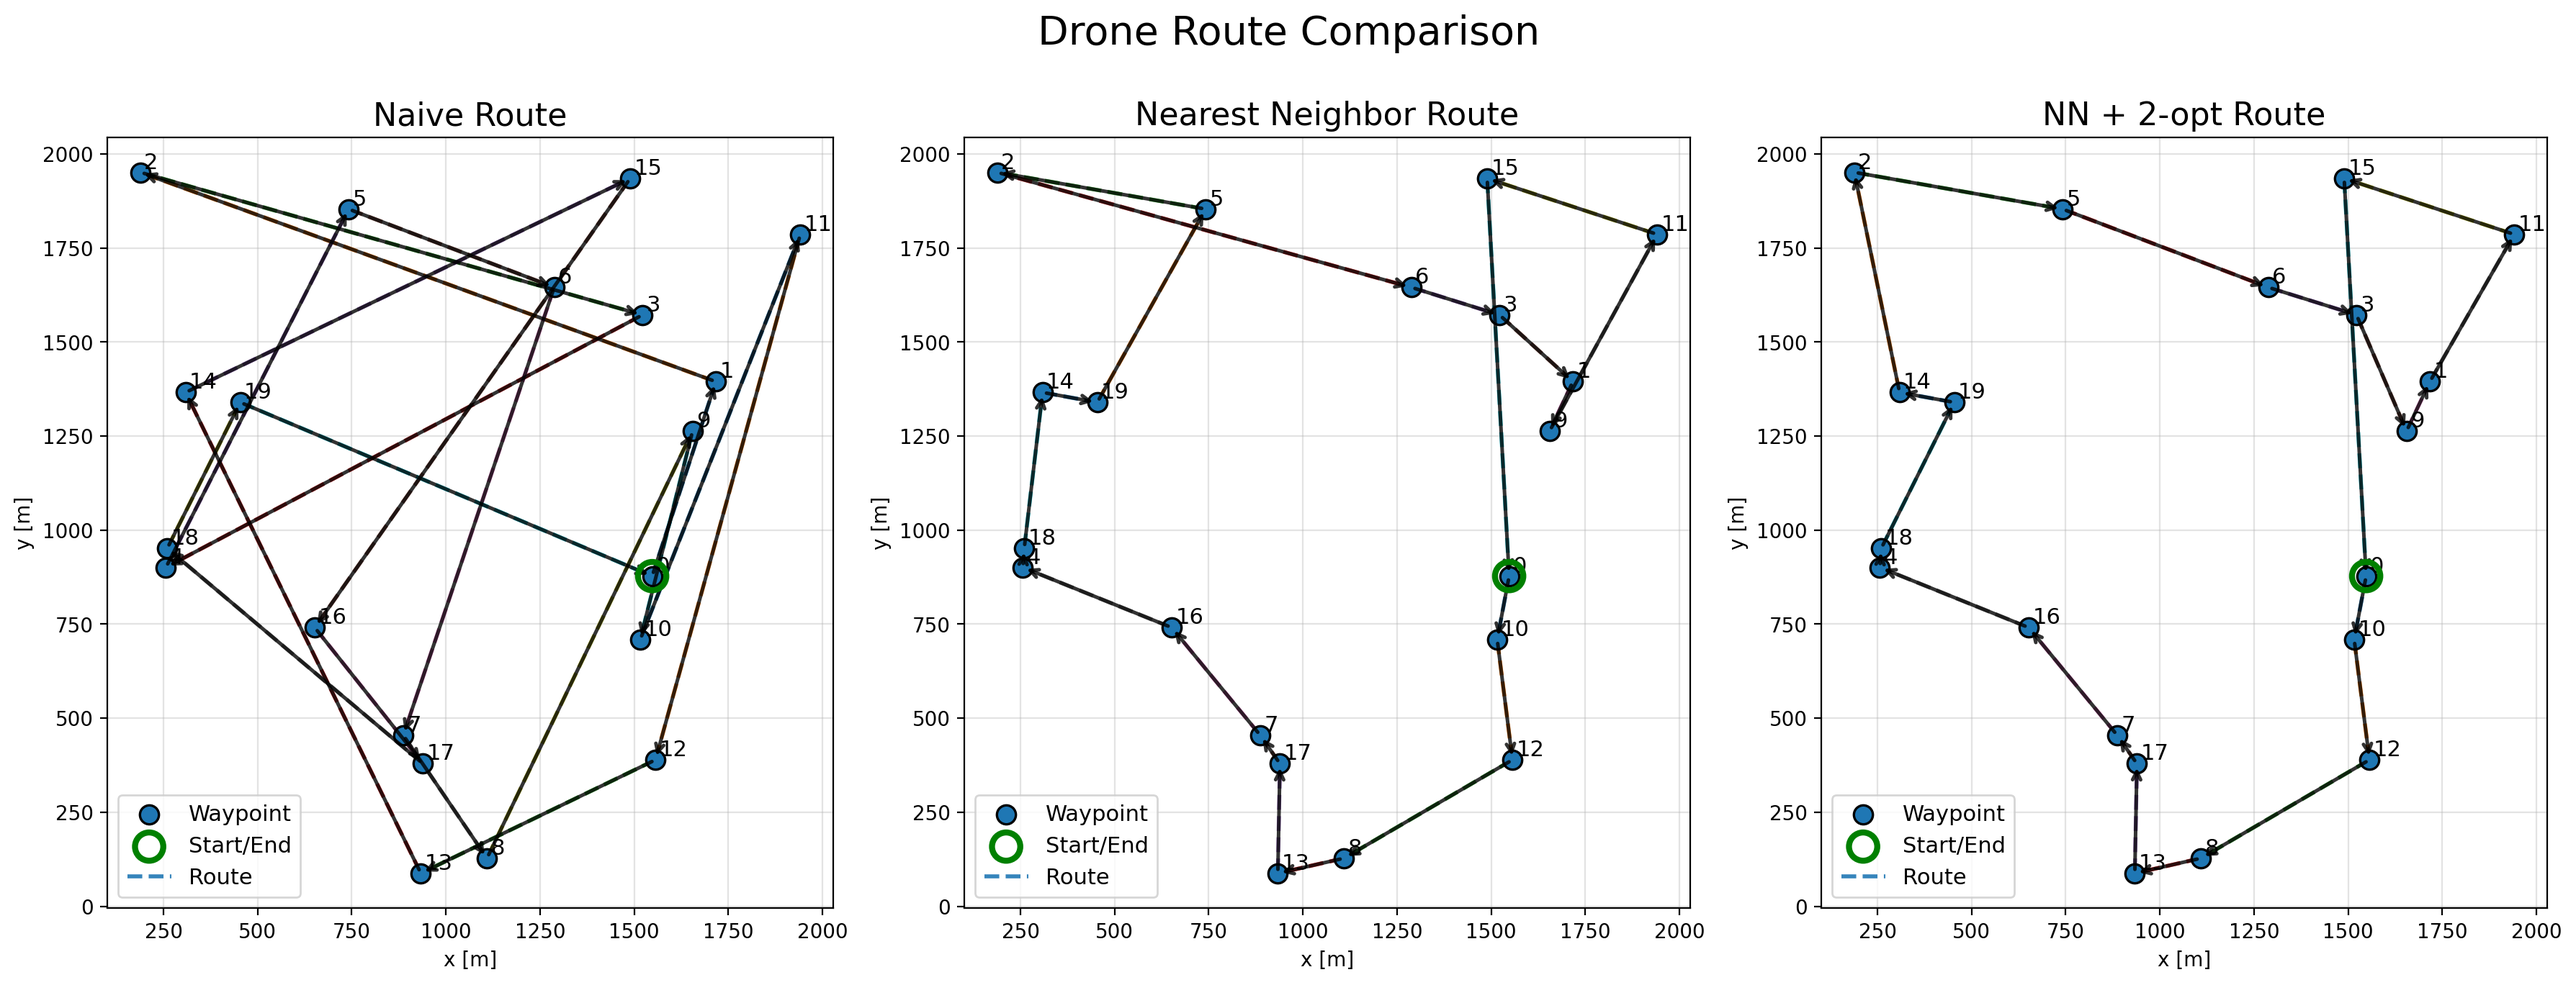
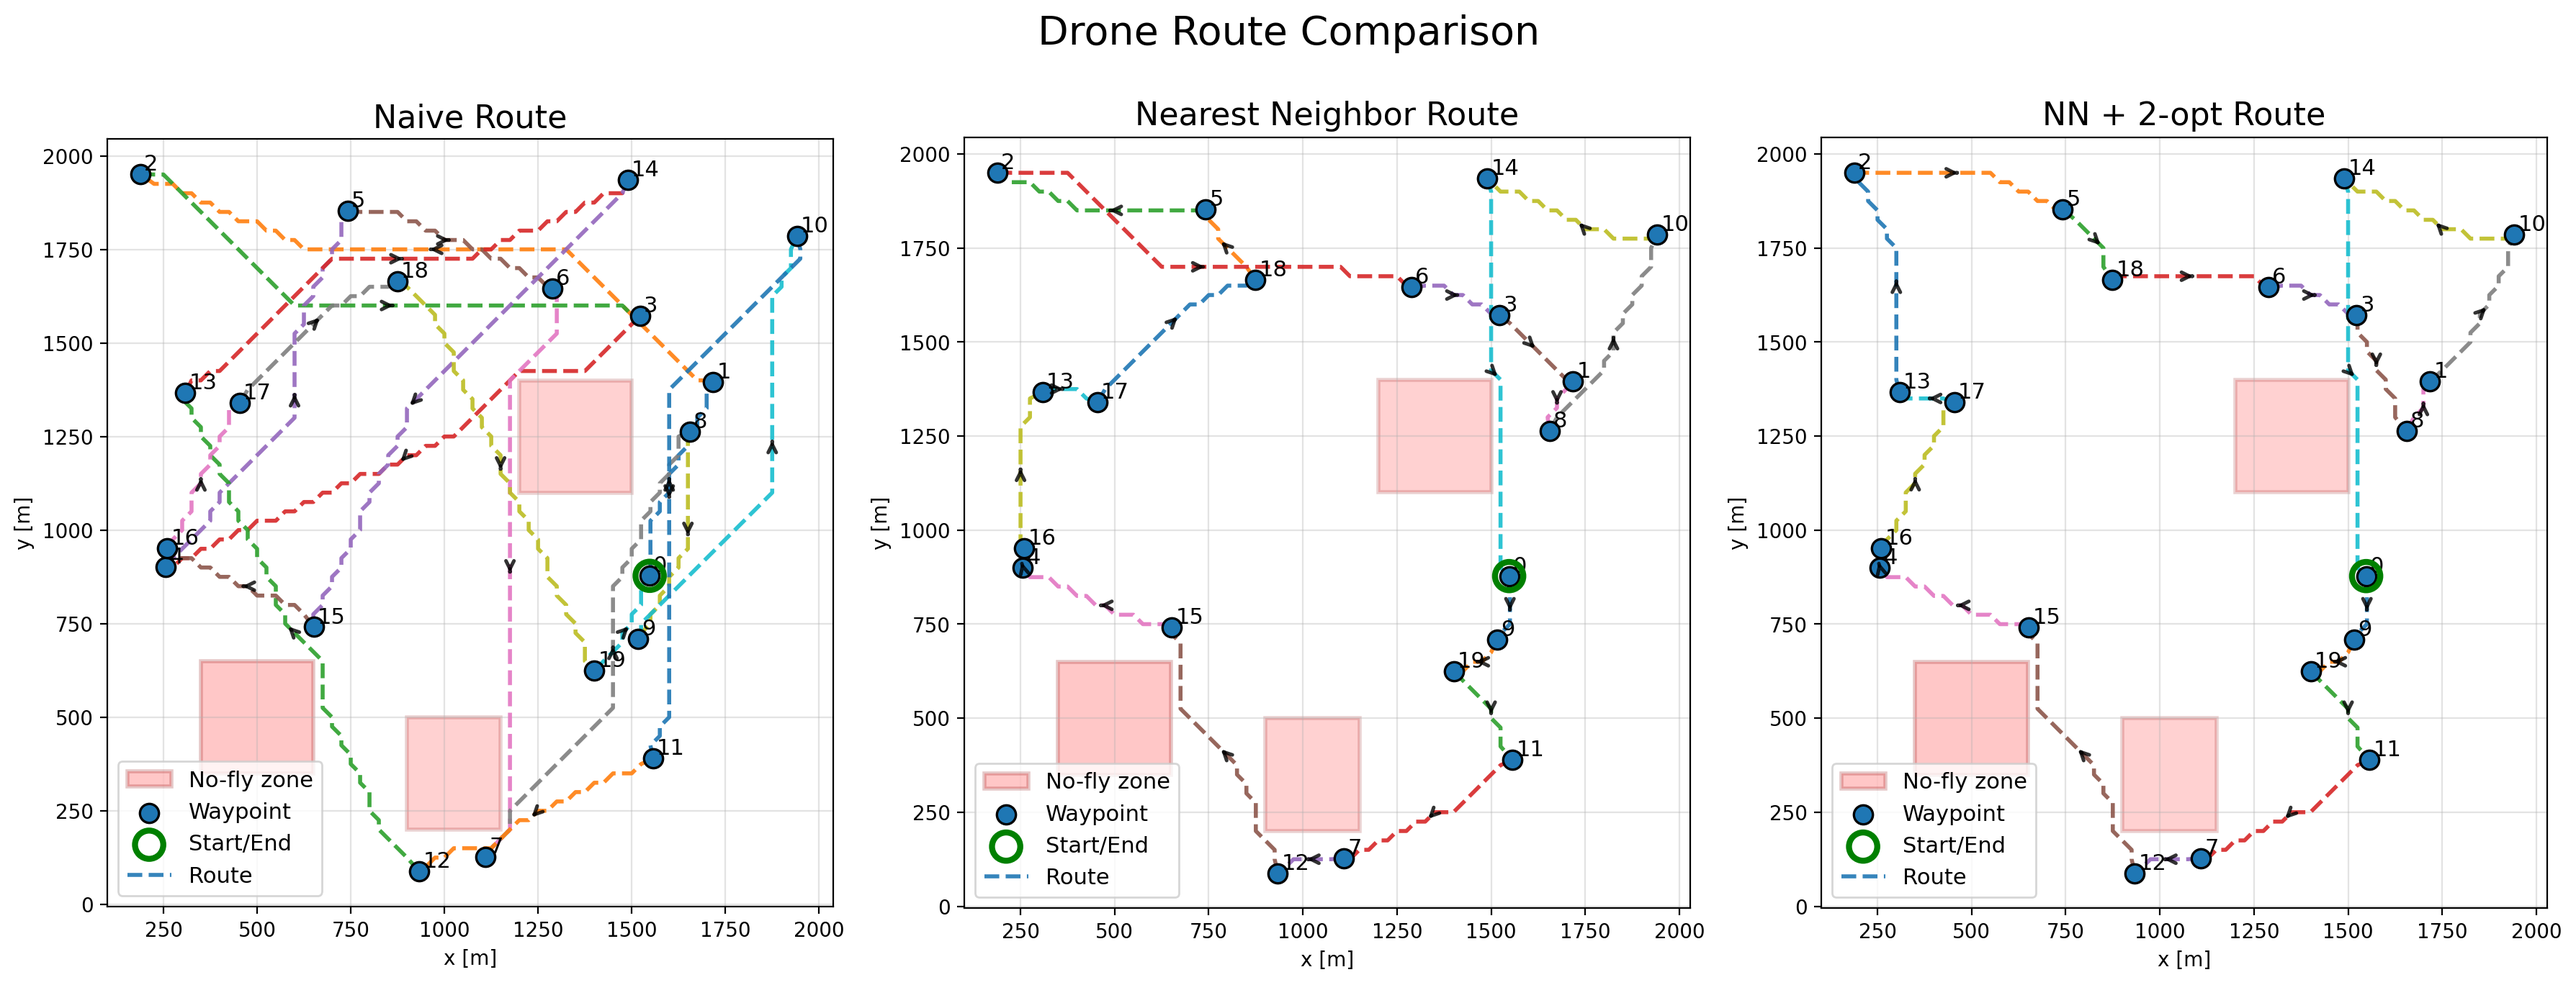
update visuals

diff --git a/main.py b/main.py
@@ -2,7 +2,6 @@ from __future__ import annotations
 
 import argparse
 from pathlib import Path
-
 import numpy as np
 
 from obstacles import RectangleZone
@@ -25,6 +24,7 @@ PLOTS_DIR = Path(__file__).resolve().parent / "plots"
 def compute_route_stats(
     simulation_config: SimulationConfig,
 ) -> dict[str, float | list[int] | np.ndarray | dict]:
+
     config = simulation_config or get_default_sim_config()
     params = get_default_params()
 
@@ -34,27 +34,35 @@ def compute_route_stats(
         waypoint_set=config.waypoint_set,
         seed=config.seed,
     )
+
     waypoints = targets.generate_waypoints(
         obstacles=config.obstacles if config.use_obstacles else None
     )
+
     n = waypoints.shape[0]
 
     physics = DronePhysics(params)
     optimizer = RoutingOptimizer(physics)
 
     path_lookup = None
+
     if config.use_obstacles and config.obstacles:
+
         planner = AStarPlanner(
             bounds=config.bounds,
             obstacles=config.obstacles,
             grid_step=config.grid_step,
             allow_diagonal=True,
         )
+
         distance_matrix, path_lookup = planner.build_obstacle_aware_distance_matrix(
             waypoints
         )
+
         planning_mode = "Obstacle-aware A* path lengths"
+
     else:
+
         distance_matrix = targets.get_distance_matrix(waypoints)
         planning_mode = "Straight-line Euclidean distances"
 
@@ -66,6 +74,7 @@ def compute_route_stats(
 
     brute_order = None
     brute_energy = None
+
     if n <= 8:
         brute_order = optimizer.solve_tsp(energy_matrix, method="brute")
         brute_energy = optimizer.tour_cost(energy_matrix, brute_order)
@@ -98,11 +107,8 @@ def compute_route_stats(
 def benchmark_results(
     N_values: list[int],
     trials_per_N: int = 10,
-    bounds: tuple[float, float] = (0.0, 2000.0),
-    use_obstacles: bool = False,
-    obstacles: list[RectangleZone] | None = None,
-    grid_step: float = 25.0,
-) -> None:
+):
+
     PLOTS_DIR.mkdir(parents=True, exist_ok=True)
 
     mean_ratio_twoopt_vs_nn = []
@@ -113,17 +119,22 @@ def benchmark_results(
     brute_Ns = []
 
     for N in N_values:
+
         ratios_twoopt_vs_nn = []
         ratios_twoopt_vs_brute = []
 
         for trial in range(trials_per_N):
+
             cfg = SimulationConfig(
                 num_targets=N,
                 seed=1000 * N + trial,
-                bounds=bounds,
-                use_obstacles=use_obstacles,
-                obstacles=obstacles or [],
-                grid_step=grid_step,
+                bounds=(0.0, 2000.0),
+
+                # BENCHMARKS DO NOT USE OBSTACLES
+                use_obstacles=False,
+                obstacles=[],
+
+                grid_step=25.0,
             )
 
             stats = compute_route_stats(cfg)
@@ -137,23 +148,16 @@ def benchmark_results(
             if E_min is not None:
                 ratios_twoopt_vs_brute.append(E_2 / float(E_min))
 
-        mean_ratio_twoopt_vs_nn.append(float(np.mean(ratios_twoopt_vs_nn)))
-        std_ratio_twoopt_vs_nn.append(float(np.std(ratios_twoopt_vs_nn)))
+        mean_ratio_twoopt_vs_nn.append(np.mean(ratios_twoopt_vs_nn))
+        std_ratio_twoopt_vs_nn.append(np.std(ratios_twoopt_vs_nn))
 
-        if len(ratios_twoopt_vs_brute) > 0:
+        if ratios_twoopt_vs_brute:
             brute_Ns.append(N)
-            mean_ratio_twoopt_vs_brute.append(float(np.mean(ratios_twoopt_vs_brute)))
-            std_ratio_twoopt_vs_brute.append(float(np.std(ratios_twoopt_vs_brute)))
-
-        print(f"N = {N}")
-        print(f"  mean(E2/ENN)   = {np.mean(ratios_twoopt_vs_nn):.4f}")
-        print(f"  std(E2/ENN)    = {np.std(ratios_twoopt_vs_nn):.4f}")
-        if len(ratios_twoopt_vs_brute) > 0:
-            print(f"  mean(E2/Emin)  = {np.mean(ratios_twoopt_vs_brute):.4f}")
-            print(f"  std(E2/Emin)   = {np.std(ratios_twoopt_vs_brute):.4f}")
-        print()
+            mean_ratio_twoopt_vs_brute.append(np.mean(ratios_twoopt_vs_brute))
+            std_ratio_twoopt_vs_brute.append(np.std(ratios_twoopt_vs_brute))
 
     visualizer = Visualizer()
+
     visualizer.plot_benchmark_results(
         N_values_nn=N_values,
         mean_e2_over_enn=mean_ratio_twoopt_vs_nn,
@@ -165,48 +169,16 @@ def benchmark_results(
 
     print("Benchmark plots saved:")
     print(" - plots/benchmark_E2_over_ENN.png")
-    if len(brute_Ns) > 0:
-        print(" - plots/benchmark_E2_over_Emin.png")
+    print(" - plots/benchmark_E2_over_Emin.png")
 
 
-def main(simulation_config: SimulationConfig | None = None) -> None:
+def main(simulation_config: SimulationConfig | None = None):
+
     stats = compute_route_stats(simulation_config)
+
     physics = DronePhysics(get_default_params())
-
-    print("=== Drone Routing Optimization (Stop-at-Waypoint) ===")
-    print(f"Planning mode: {stats['planning_mode']}")
-    print(f"Waypoints (x,y):\n{stats['waypoints']}\n")
-
-    print("=== Route Indices (cycle closes back to 0) ===")
-    print(f"Naive:     {stats['naive_order']}")
-    print(f"Optimized: {stats['nn_order']} (nearest neighbor)")
-    print(f"Super:     {stats['two_opt_order']} (nearest neighbor + 2-opt)")
-    if stats["brute_order"] is not None:
-        print(f"Brute:     {stats['brute_order']} (exact optimum)")
-    print()
-
-    print("=== Total Distance Comparison ===")
-    print(f"Naive distance:     {stats['naive_distance']:.2f} m")
-    print(f"Optimized distance: {stats['nn_distance']:.2f} m")
-    print(f"Super distance:     {stats['two_opt_distance']:.2f} m")
-    print()
-
-    print("=== Total Energy Comparison ===")
-    print(f"Naive energy:     {stats['naive_energy']:.2f} J")
-    print(f"Optimized energy: {stats['nn_energy']:.2f} J")
-    print(f"Super energy:     {stats['two_opt_energy']:.2f} J")
-    if stats["brute_energy"] is not None:
-        print(f"Brute energy:     {stats['brute_energy']:.2f} J")
-        print(f"E2 / ENN  = {stats['two_opt_energy'] / stats['nn_energy']:.4f}")
-        print(f"E2 / Emin = {stats['two_opt_energy'] / stats['brute_energy']:.4f}")
-    print()
-
-    print("=== Total Time (sum of per-segment Tmin) ===")
-    print(f"Naive time:     {stats['naive_time']:.2f} s")
-    print(f"Optimized time: {stats['nn_time']:.2f} s")
-    print(f"Super time:     {stats['two_opt_time']:.2f} s")
-
     visualizer = Visualizer()
+
     visualizer.plot_energy_curve(physics, distance=1000.0)
 
     visualizer.plot_routes_three(
@@ -226,58 +198,46 @@ def main(simulation_config: SimulationConfig | None = None) -> None:
         filename="total_energy.png",
     )
 
-    print("\nPlots saved:")
+    print("Plots saved:")
     print(" - plots/energy_curve.png")
     print(" - plots/route_map.png")
     print(" - plots/total_energy.png")
 
 
 if __name__ == "__main__":
-    parser = argparse.ArgumentParser(
-        description="Drone routing optimization with no-fly zones, A*, NN, 2-opt, and benchmarking"
-    )
-    parser.add_argument("-n", "--num-targets", type=int, default=5)
+
+    parser = argparse.ArgumentParser()
+
+    parser.add_argument("--benchmark", action="store_true")
+    parser.add_argument("--trials", type=int, default=10)
+    parser.add_argument("-n", "--num-targets", type=int, default=7)
     parser.add_argument("-s", "--seed", type=int, default=None)
-    parser.add_argument(
-        "--test",
-        action="store_true",
-        help="Use a fixed waypoint set with a no-fly zone",
-    )
-    parser.add_argument(
-        "--benchmark",
-        action="store_true",
-        help="Run multi-configuration benchmark study",
-    )
-    parser.add_argument(
-        "--trials",
-        type=int,
-        default=10,
-        help="Number of random configurations per N",
-    )
-    parser.add_argument(
-        "--grid-step",
-        type=float,
-        default=25.0,
-        help="Grid spacing for A* pathfinding in meters",
-    )
+
     args = parser.parse_args()
 
     if args.benchmark:
+
         benchmark_results(
             N_values=list(range(6, 13)),
             trials_per_N=args.trials,
-            use_obstacles=False,
         )
+
     else:
-        if args.test:
-            cfg = get_test_sim_config()
-        else:
-            cfg = SimulationConfig(
-                num_targets=args.num_targets,
-                seed=args.seed,
-                bounds=(0.0, 2000.0),
-                use_obstacles=False,
-                obstacles=[],
-                grid_step=args.grid_step,
-            )
+
+        # DEFAULT RUN USES A NO-FLY ZONE
+
+        cfg = SimulationConfig(
+            num_targets=args.num_targets,
+            seed=args.seed,
+            bounds=(0.0, 2000.0),
+
+            use_obstacles=True,
+            obstacles=[
+                RectangleZone(xmin=350, xmax=650, ymin=350, ymax=650, pad=20),
+                RectangleZone(xmin=900, xmax=1150, ymin=200, ymax=500, pad=20),
+                RectangleZone(xmin=1200, xmax=1500, ymin=1100, ymax=1400, pad=20),
+            ],
+            grid_step=25.0,
+        )
+
         main(cfg)
